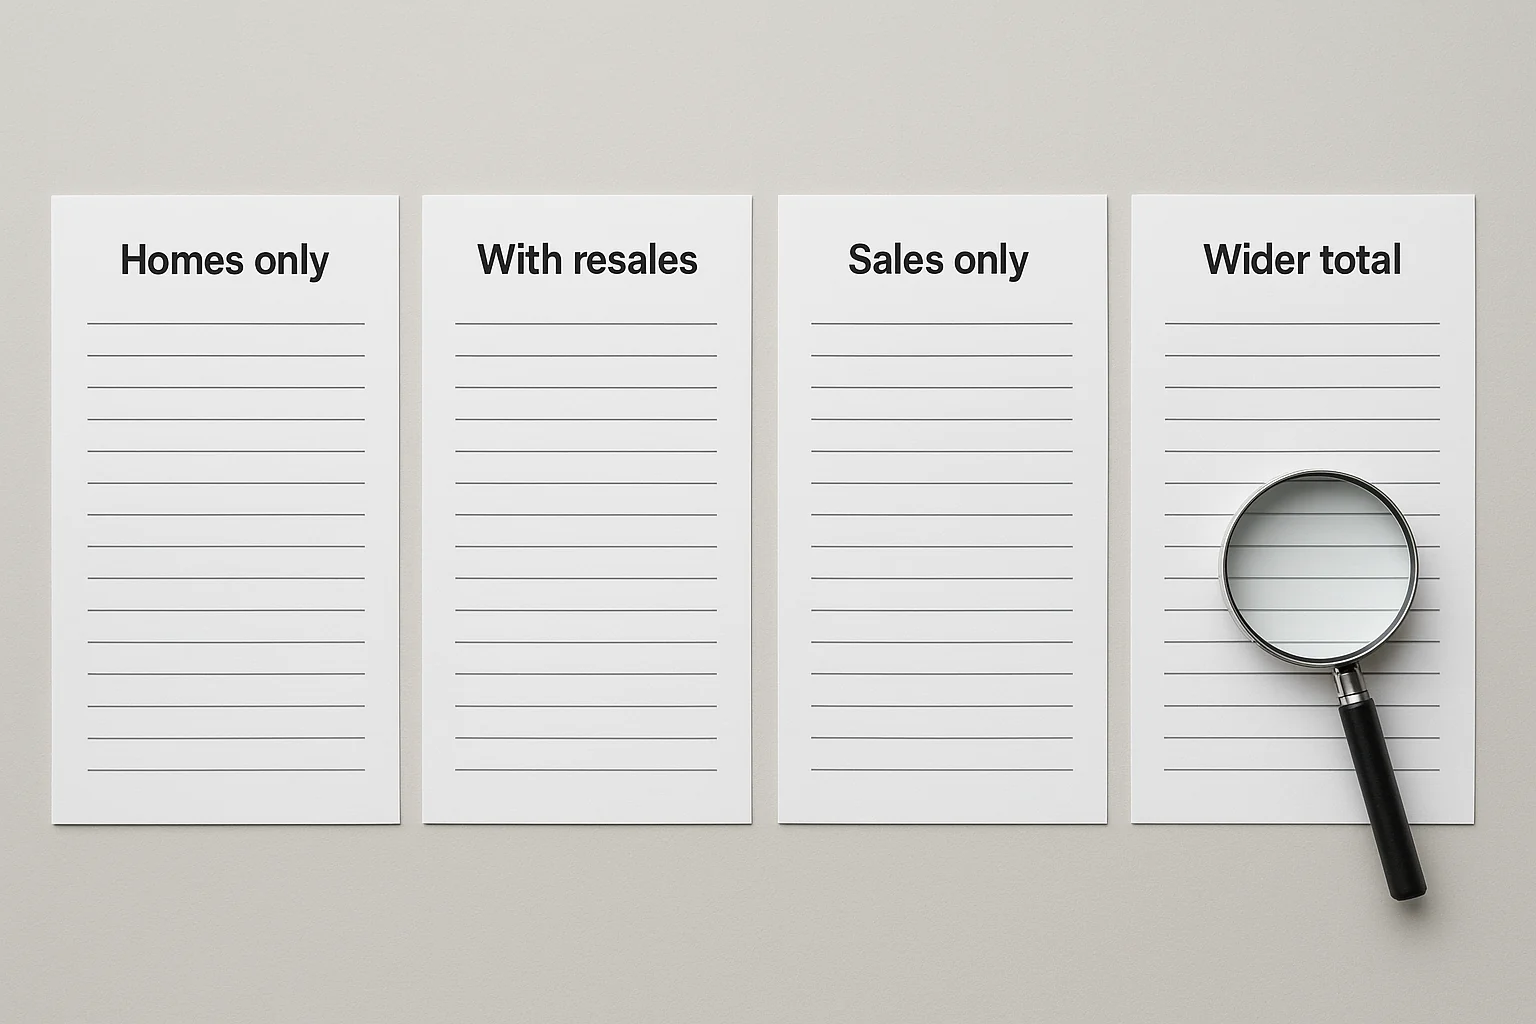
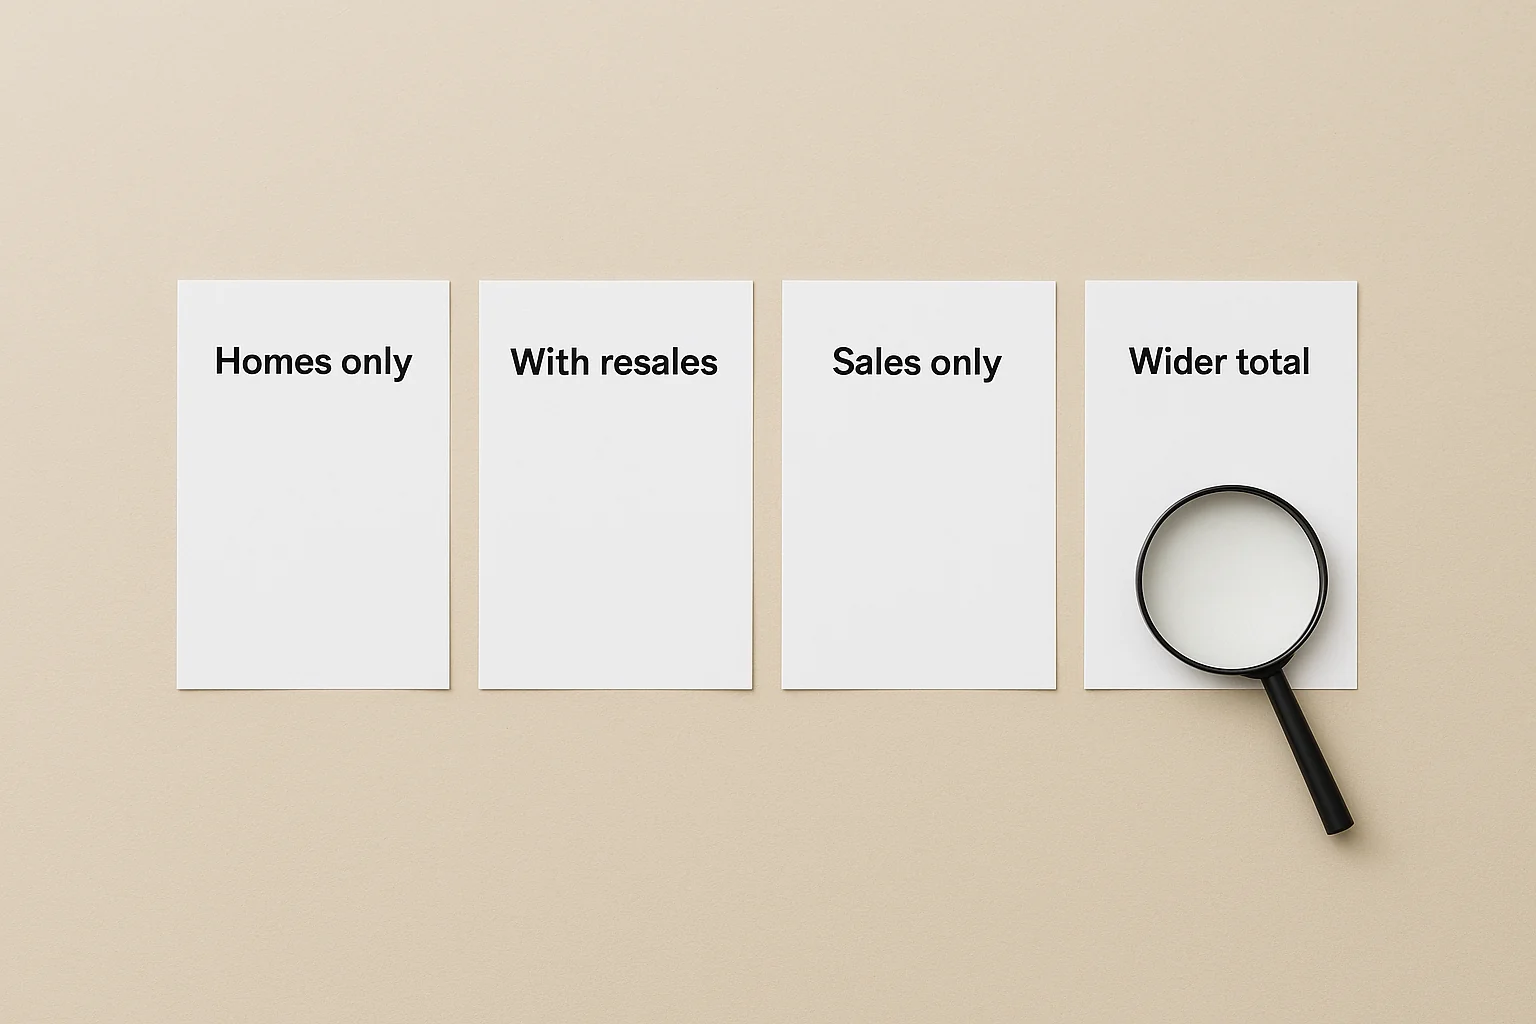
Recompose heroes for the 21:9 header crop and document the rule
Claude-Session: https://claude.ai/code/session_01EFb784A7zrZ9BBHwP1AAr7

diff --git a/.claude/skills/illustrative-imagery/SKILL.md b/.claude/skills/illustrative-imagery/SKILL.md
@@ -41,6 +41,19 @@ no API key, and INCLUDE_IMAGES=false does not switch it off. Then embed it:
 - Look at every chart: labels collide, a source line truncates, a thin segment
   loses its number. Fix the data or the chart, then re-run.
 
+## Compose the hero for a wide crop
+
+The post header crops the hero to 21:9 (and the parallax scales it up about 14
+per cent), so a 3:2 picture loses roughly the top and bottom third and the
+outer edges. A subject that fills the frame arrives cut off. In the prompt:
+
+- Ask for everything to sit in a horizontal band across the middle of the
+  frame, with plain empty space above and below and a wide margin at both sides.
+- Keep labels away from the edges, and keep subjects small and landscape-shaped
+  rather than tall.
+- Before publishing, preview the crop: centre-crop the WebP to 21:9, then trim
+  another 12 per cent in width. If anything the post needs is cut, regenerate.
+
 ## When the image model is still used
 
 The hero. Keep any text in it to a few words and no numbers at all: a label is
